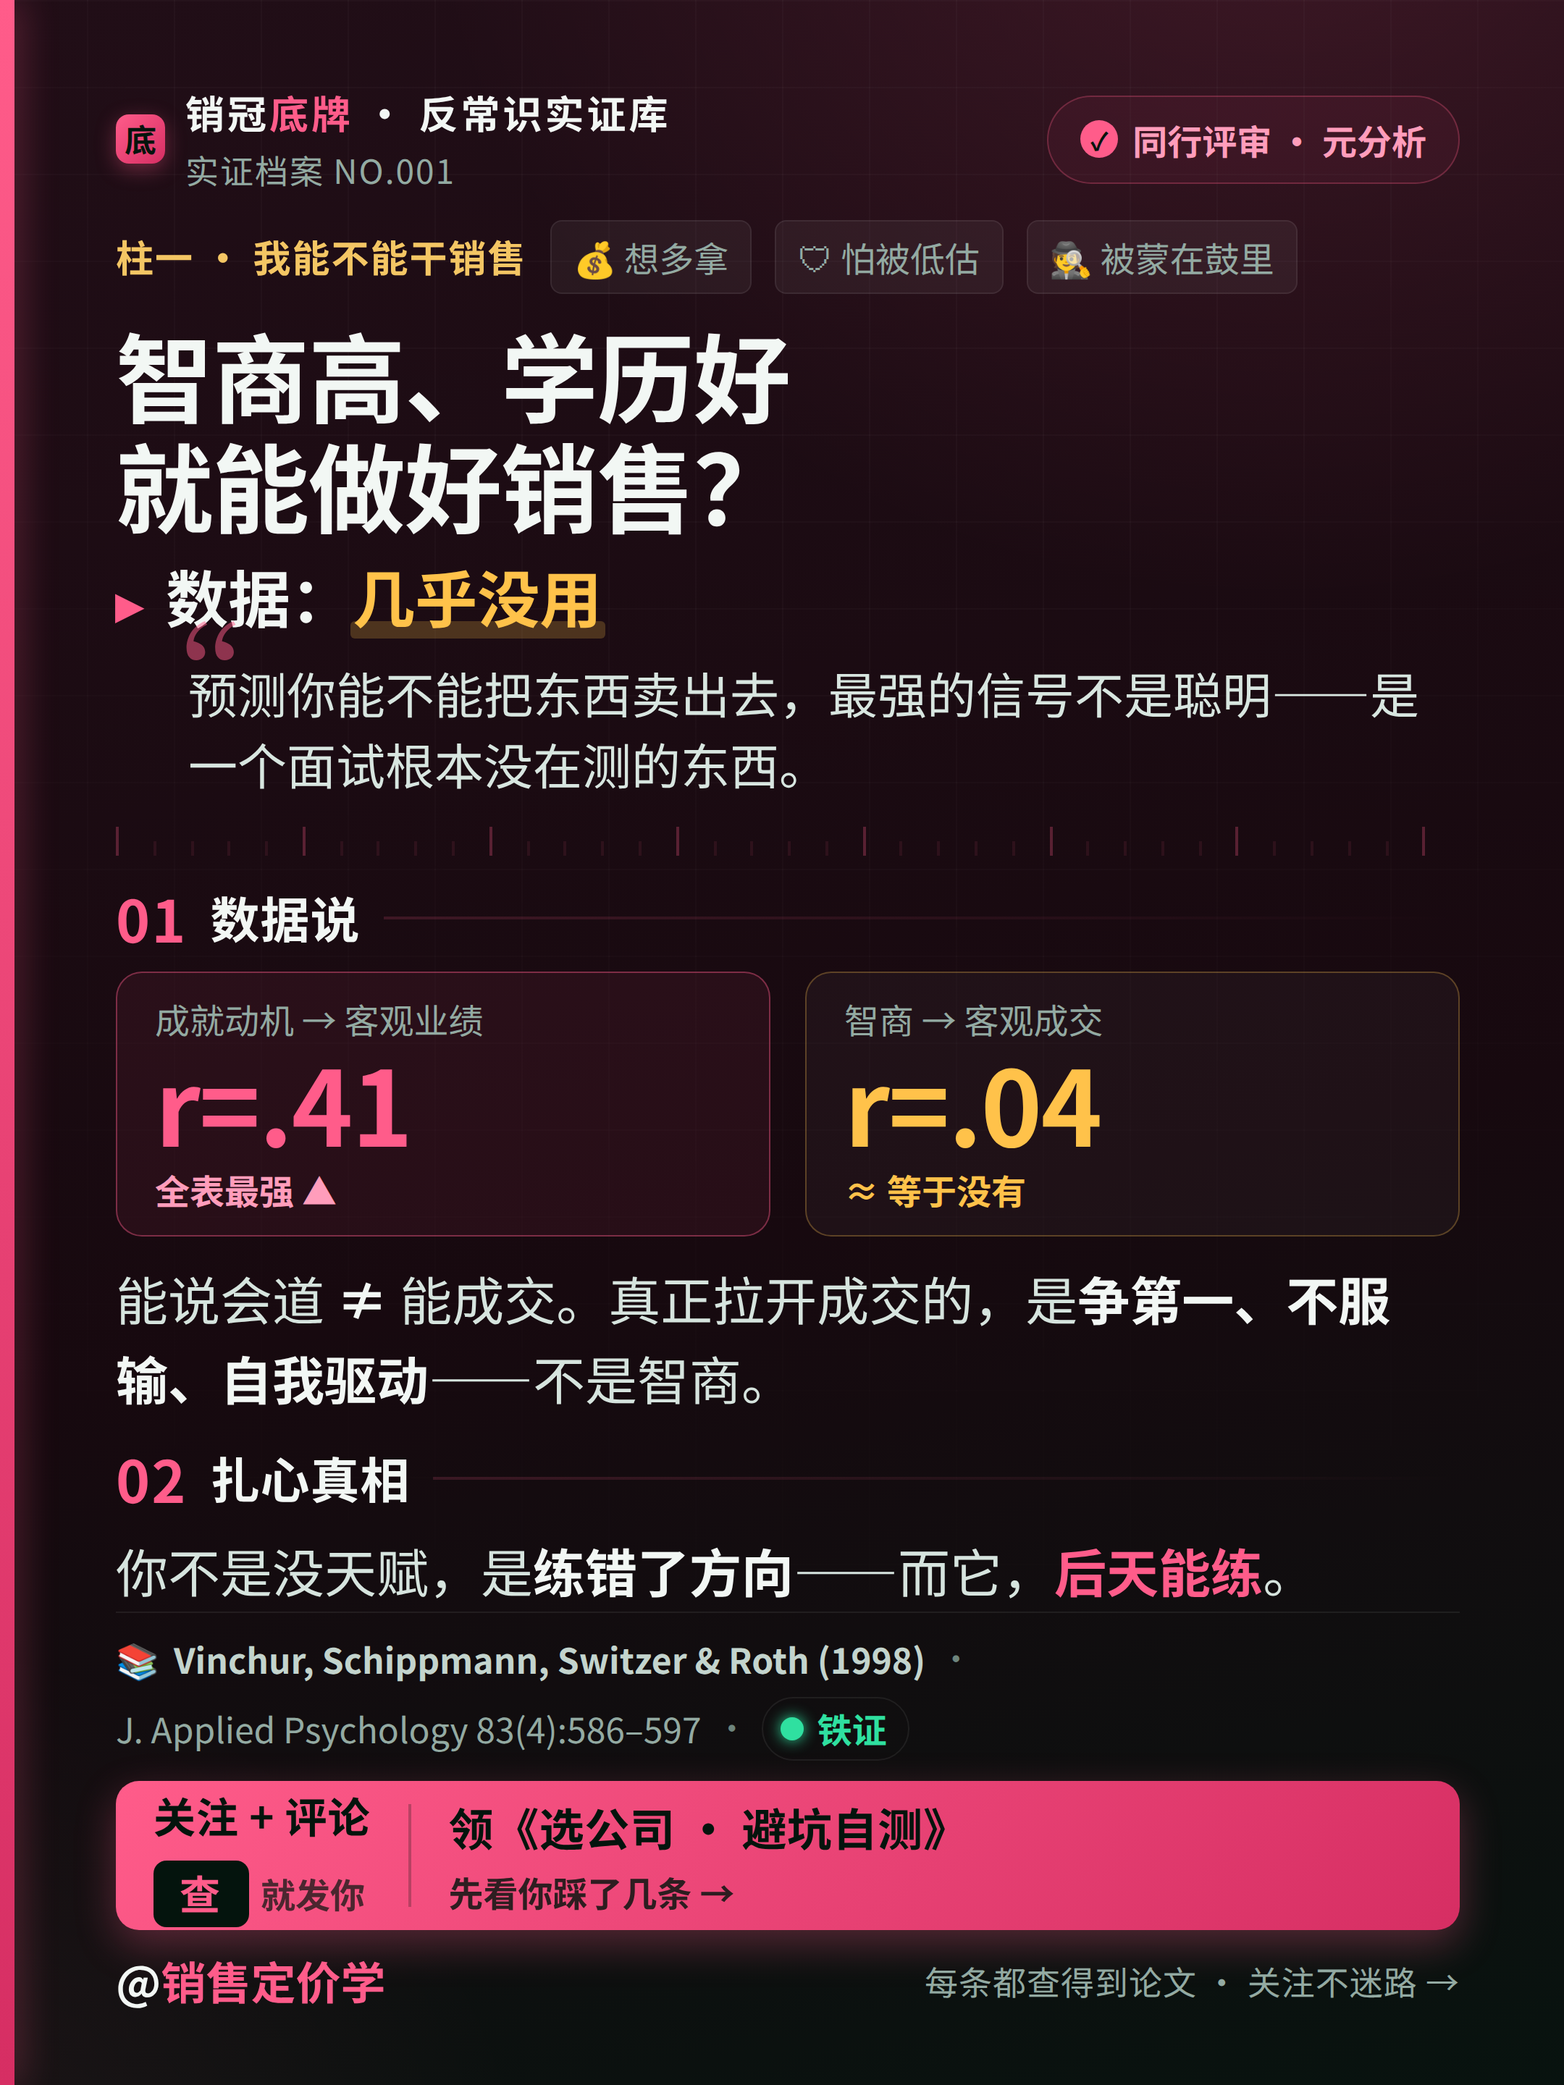
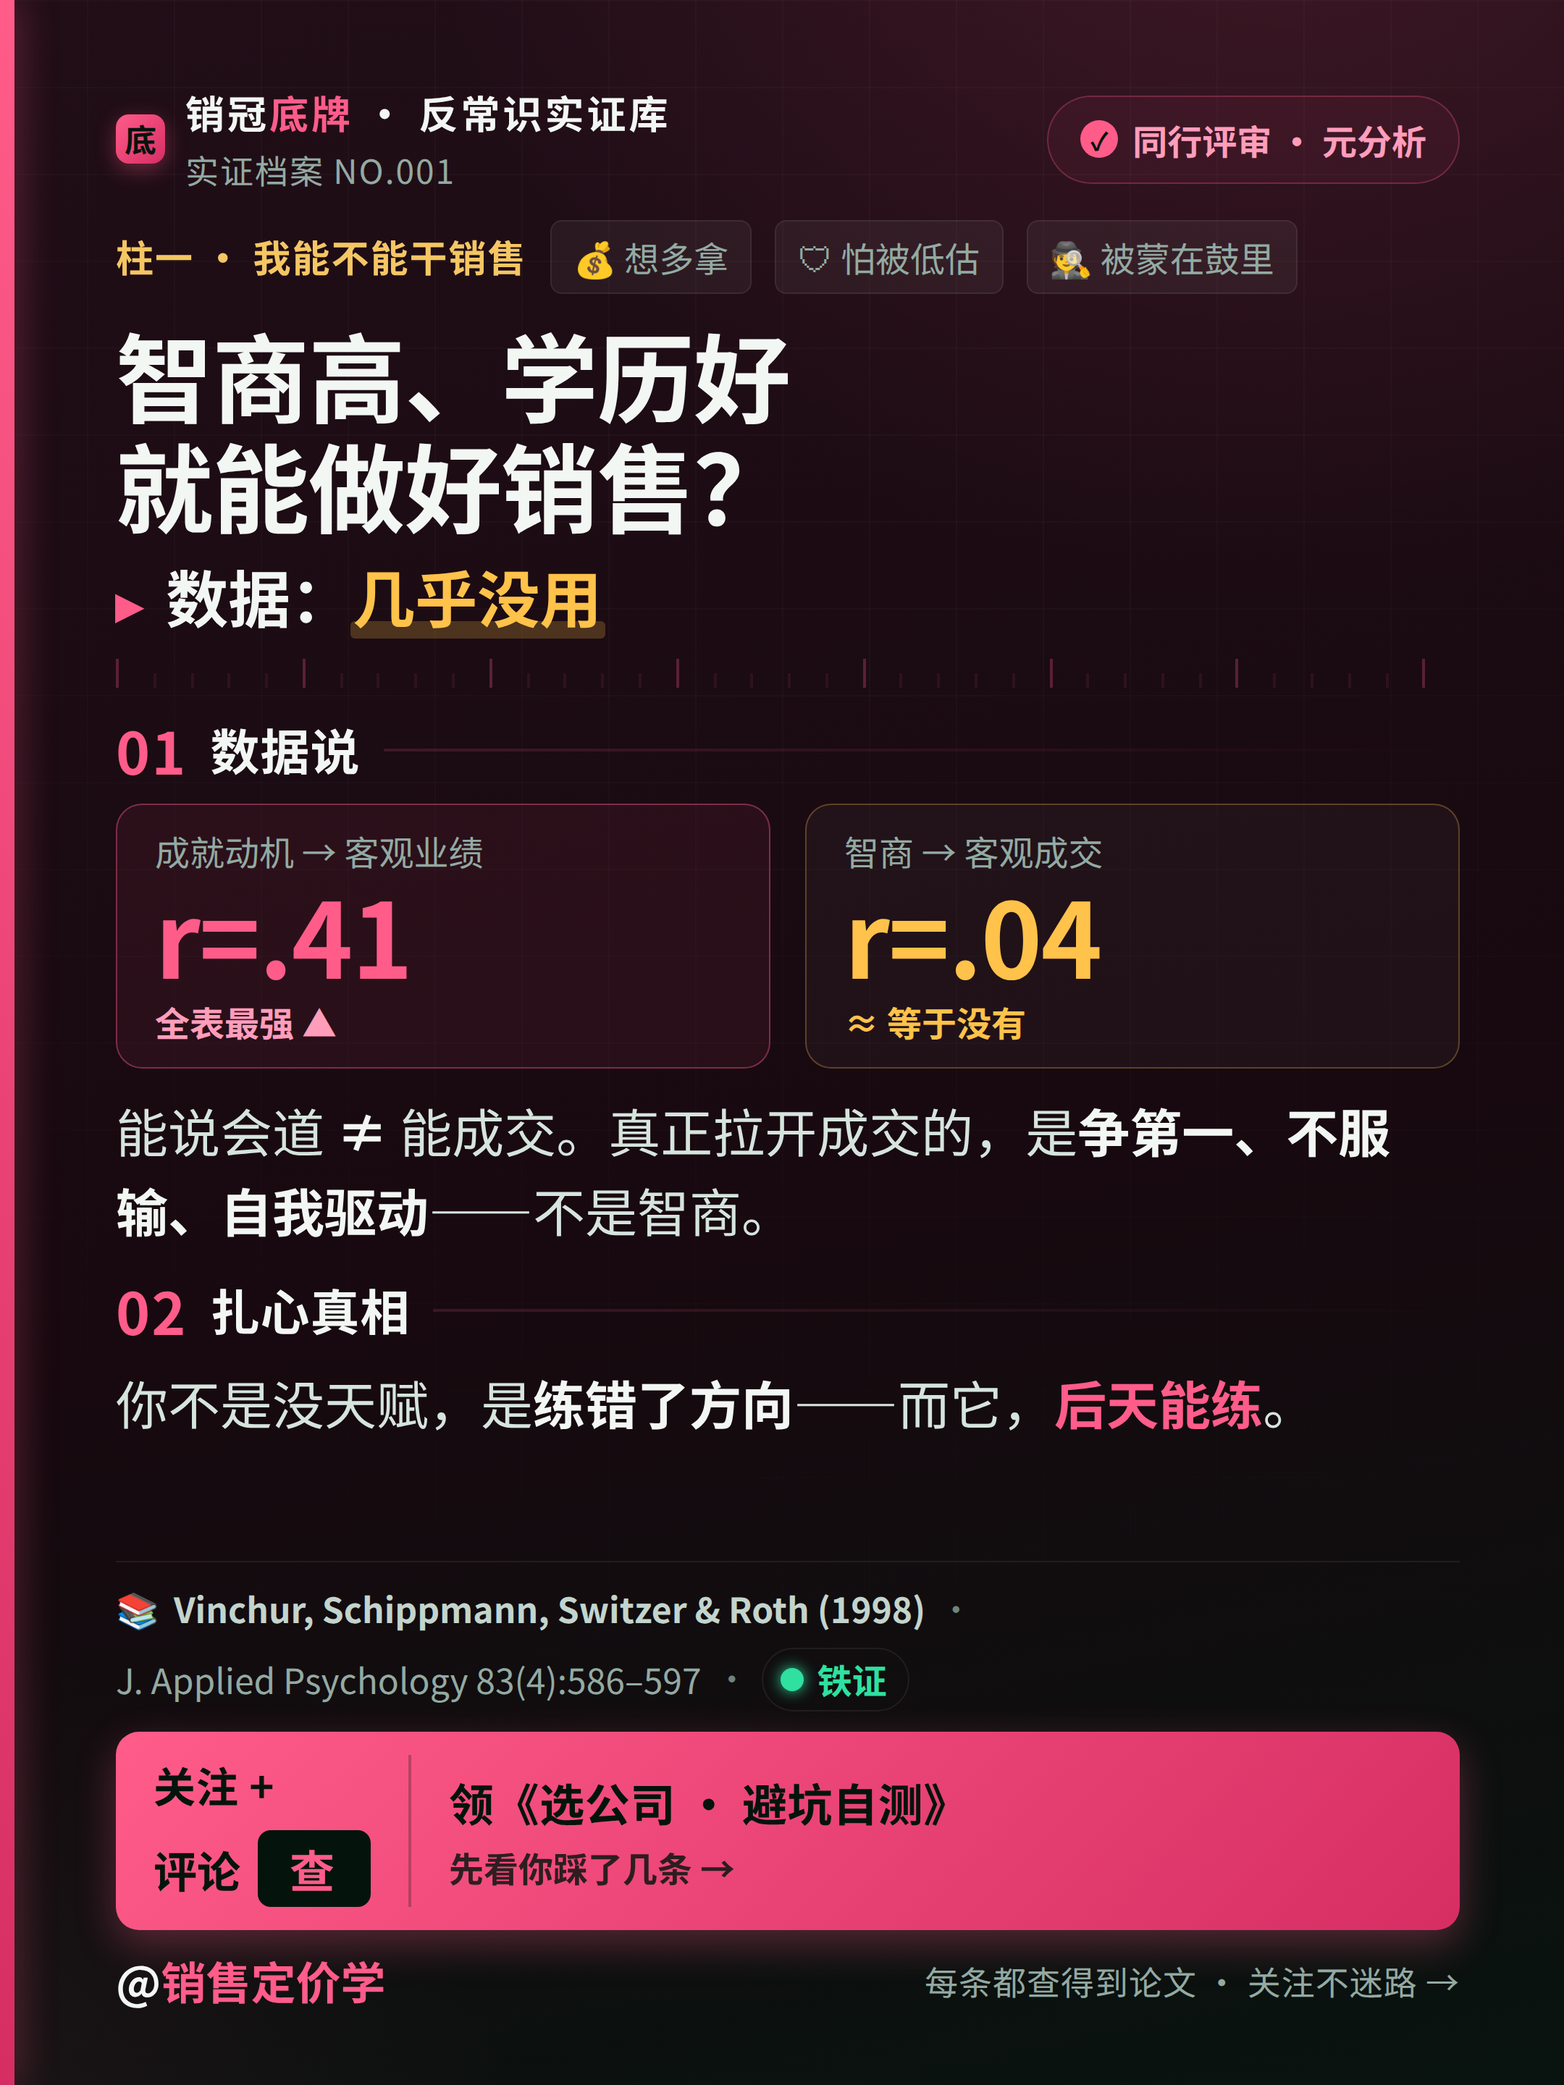
柱一完成：10 张理论卡（底001/002/003/009/010/031/042/080/100/043）
- 新增两种数据图：崩塌曲线(底003)、横向排名条(底042/080)
- 修复关键布局bug：锁定 flex 子元素不被压缩，钩子盒不再被挤成细条
- 取消顶部引用钩子，改由标题问句+结论承担钩子，为通用转化盒腾出空间
- 结构对齐原样片：标题→01数据→02扎心→论文→通用钩子盒→底栏
- 全部精确适配 1080x1440(3:4)，正文36px，青蓝配色
- 便于交付的中文命名副本置于 cards/柱一/

diff --git a/cards/cards.html b/cards/cards.html
@@ -42,6 +42,7 @@
     color:var(--cream);overflow:hidden;padding:58px 72px 50px 80px;
     display:flex;flex-direction:column;isolation:isolate;
   }
+  .card > *{flex-shrink:0;}   /* 禁止子元素被压缩，溢出即暴露，便于精确校对 */
   .card::before{content:"";position:absolute;left:0;top:0;bottom:0;width:10px;
     background:linear-gradient(180deg,var(--acc) 0%, var(--acc-deep) 100%);
     box-shadow:0 0 26px rgba(var(--acc-rgb),.5);}
@@ -164,6 +165,22 @@
   .u-tick{fill:var(--dim);font-size:23px;}
   .u-stop0{stop-color:var(--acc);stop-opacity:.35;}
   .u-stop1{stop-color:var(--acc);stop-opacity:0;}
+  .d-crash{fill:none;stroke:var(--rev);stroke-width:5;stroke-linecap:round;}
+  .d-dot{fill:var(--rev);}
+  .d-label{fill:var(--rev);font-size:25px;font-weight:800;}
+
+  /* 横向排名条 */
+  .bars{display:flex;flex-direction:column;gap:8px;margin:2px 0 10px;}
+  .bar-row{display:flex;align-items:center;gap:15px;}
+  .bar-lab{width:228px;font-size:25px;color:#D6E4DE;font-weight:700;white-space:nowrap;text-align:right;}
+  .bar-track{flex:1;height:22px;background:rgba(255,255,255,.06);border-radius:7px;overflow:hidden;}
+  .bar-fill{display:block;height:100%;border-radius:7px;background:linear-gradient(90deg,var(--acc-deep),var(--acc));}
+  .bar-fill.hi{background:linear-gradient(90deg,var(--acc),var(--acc-2));box-shadow:0 0 14px rgba(var(--acc-rgb),.5);}
+  .bar-fill.lose{background:linear-gradient(90deg,#b8442c,var(--rev));}
+  .bar-fill.dim{background:rgba(255,255,255,.16);}
+  .bar-val{width:130px;font-size:25px;font-weight:800;color:var(--acc-2);white-space:nowrap;}
+  .bar-val.lose{color:var(--rev);}
+  .bar-val.dim{color:var(--dim);}
 </style>
 </head>
 <body>
@@ -206,6 +223,171 @@ const CARDS = [
     citeJour:"Psychological Science 24(6):1024–1030",
     gradeLevel:"y", gradeText:"较稳",
   },
+  /* ================= 底003 ================= */
+  {
+    fileNo:"实证档案 NO.003", pillar:"柱一 · 我能不能干销售",
+    tags:["🛡 怕被低估","🕵 被蒙在鼓里"],
+    badge:"顶刊 · 纵向追踪",
+    headQ:["开局最炸的新人","往往崩得最快"],
+    verdict:[{t:"短期冲高，随后"},{t:"跌下神坛",cls:"hl-coral hl-under"}],
+    hook:"别羡慕那个一进来就爆单的同事——这条崩塌曲线，是有论文的，不是你运气差。",
+    b1title:"数据说",
+    chart:"decline",
+    b1body:'自恋 / 精神病态型<b>短期业绩冲高</b>，随后收益全丧失；闷头算计、面试平淡的，<b>长期反而最强</b>。',
+    b2title:"扎心真相",
+    b2body:'让人眼前一亮的人，和最终能赢的人，<span class="mint">常是两个人</span>——稳定复利，才是提款机的样子。',
+    citeSrc:"Satornino, Allen, Shi & Bolander (2023)",
+    citeJour:"Journal of Marketing 87(2):298–318",
+    gradeLevel:"g", gradeText:"铁证",
+  },
+  /* ================= 底009 ================= */
+  {
+    fileNo:"实证档案 NO.009", pillar:"柱一 · 我能不能干销售",
+    tags:["🔥 想放弃","🛡 怕被低估"],
+    badge:"顶刊 · 追踪研究",
+    headQ:["考试没过、但够乐观","反而卖得最好"],
+    verdict:[{t:"超级乐观组 · 第二年"},{t:"反超 57%",cls:"hl-coral hl-under"}],
+    hook:"大都会人寿招了一批“笔试没通过”的人，只因一个特质——结果他们卖赢了所有人。",
+    b1title:"数据说",
+    stats:[
+      {cap:"乐观前半组 · 两年累计",num:"+37%",tagn:"多卖这么多 ▲",kind:"win"},
+      {cap:"超级乐观组 · 第二年",num:"+57%",tagn:"反超正常录取 ▲",kind:"win"},
+    ],
+    b1body:'机制:乐观者把拒绝归因为<b>"暂时的、具体的"</b>——所以被拒之后，还敢打下一个电话。',
+    b2title:"扎心真相",
+    b2body:'能不能扛过销售最难那关(被拒)，不看脸皮厚，看<span class="mint">你怎么解释"这次没成"</span>——这，能练。',
+    citeSrc:"Seligman & Schulman (1986)",
+    citeJour:"J. Personality & Social Psych. 50(4):832–838",
+    gradeLevel:"y", gradeText:"较稳",
+  },
+  /* ================= 底010 ================= */
+  {
+    fileNo:"实证档案 NO.010", pillar:"柱一 · 我能不能干销售",
+    tags:["🛡 怕被低估","🔥 想放弃"],
+    badge:"元分析 · 跨职业",
+    headQ:["干成销售靠的性格","不是能说会道"],
+    verdict:[{t:"是"},{t:"尽责",cls:"hl-mint"},{t:"：自律 · 可靠 · 跟到底"}],
+    hook:"跨所有职业、几十年数据里，最稳的那个性格预测因子——不是外向，是“尽责”。",
+    b1title:"数据说",
+    stats:[
+      {cap:"尽责性（自律 · 可靠 · 跟到底）→ 绩效",num:"跨职业 第 1",tagn:"最一致的预测因子 ▲（效度约 .19）",kind:"win"},
+    ],
+    b1body:'大五人格里，只有<b>尽责性</b>是跨所有职业最一致的业绩预测因子；<b>外向</b>只在销售等特定岗位有限相关。',
+    b2title:"扎心真相",
+    b2body:'你羡慕的"天生会来事"不是关键。<span class="mint">按流程、跟到底、可不可靠</span>——靠习惯，不靠天赋。',
+    citeSrc:"Barrick & Mount (1991)",
+    citeJour:"Personnel Psychology 44(1):1–26",
+    gradeLevel:"g", gradeText:"铁证",
+  },
+  /* ================= 底031 ================= */
+  {
+    fileNo:"实证档案 NO.031", pillar:"柱一 · 我能不能干销售",
+    tags:["🧭 选公司","🛡 怕被低估","🕵 被蒙在鼓里"],
+    badge:"元分析",
+    headQ:["怕自己没经验","不敢入行销售？"],
+    verdict:[{t:"经验对真实成交，"},{t:"几乎不预测",cls:"hl-coral hl-under"}],
+    hook:"年限对真实成交，几乎不预测，甚至略负——老练，只是“看起来像个销售”。",
+    b1title:"数据说",
+    stats:[
+      {cap:"经验 → 主管评分",num:"r=.26",tagn:"只是看着像",kind:"win"},
+      {cap:"经验 → 客观成交",num:"≈ -.06",tagn:"约等于零，甚至略负",kind:"lose"},
+    ],
+    b1body:'老练的人"看起来像个销售"，但<b>卖不卖得出，跟干过几年无关</b>。',
+    b2title:"扎心真相",
+    b2body:'转行、退伍、刚毕业，别被"没经验"劝退——这行的门槛，<span class="mint">比劝退你的人说的低</span>。',
+    citeSrc:"Vinchur, Schippmann, Switzer & Roth (1998)",
+    citeJour:"J. Applied Psychology 83(4):586–597",
+    gradeLevel:"g", gradeText:"铁证",
+  },
+  /* ================= 底042 ================= */
+  {
+    fileNo:"实证档案 NO.042", pillar:"柱一 · 我能不能干销售",
+    tags:["🧭 选公司","🛡 怕被低估","🕵 被蒙在鼓里"],
+    badge:"元分析 · 116 篇",
+    headQ:["怕自己天生","不是干销售的料？"],
+    verdict:[{t:"史上最大规模研究:天赋排"},{t:"倒数",cls:"hl-coral hl-under"}],
+    hook:"汇总 116 篇研究、1653 个关联，把“天赋”排到了倒数。",
+    b1title:"对业绩影响力排序",
+    chart:"bars",
+    bars:[
+      {lab:"角色认知",w:100,val:"第 1",kind:"hi"},
+      {lab:"技能",w:84,val:"第 2"},
+      {lab:"动机",w:68,val:"第 3"},
+      {lab:"个人因素",w:50,val:"第 4"},
+      {lab:"天资 / 天赋",w:34,val:"倒数第 2",kind:"lose"},
+      {lab:"组织环境",w:24,val:"垫底",kind:"dim"},
+    ],
+    b1body:'真正靠前的角色认知、技能、动机，<b>全是后天能练的</b>。',
+    b2title:"扎心真相",
+    b2body:'"我没这天赋"只是借口——拉开差距的是<span class="mint">能练的技能和动机</span>，不是天生的料。',
+    citeSrc:"Churchill, Ford, Hartley & Walker (1985)",
+    citeJour:"J. Marketing Research 22(2):103–118",
+    gradeLevel:"g", gradeText:"铁证",
+  },
+  /* ================= 底080 ================= */
+  {
+    fileNo:"实证档案 NO.080", pillar:"柱一 · 我能不能干销售",
+    tags:["💰 想多拿","🧭 选公司"],
+    badge:"顶刊元分析 · 530+ 引用",
+    headQ:["能不能卖好","实测就看这 5 样"],
+    verdict:[{t:"聪明(智商)，只排"},{t:"中游",cls:"hl-coral hl-under"}],
+    hook:"把 25 年销售研究汇总，真正预测业绩的前几名里，“聪明”只排中间，还有一样是公司在坑你。",
+    b1title:"真正预测业绩的 5 样（β）",
+    chart:"bars",
+    bars:[
+      {lab:"销售知识",w:100,val:".28",kind:"hi"},
+      {lab:"适应性（看人下菜）",w:96,val:".27"},
+      {lab:"认知能力（智商）",w:82,val:".23 · 中游"},
+      {lab:"工作投入",w:82,val:".23"},
+      {lab:"角色模糊（拖累）",w:89,val:"−.25",kind:"lose"},
+    ],
+    b1body:'"会卖的知识"排第一、"看人下菜的适应性"第二；<b>智商只排中游</b>。而<b>角色模糊</b>在实打实拖垮你。',
+    b2title:"扎心真相",
+    b2body:'一家让你长期<b>搞不清"该干嘛、按啥算钱"</b>的公司，不是管理松，是<span class="mint">直接在扣你业绩</span>。',
+    citeSrc:"Verbeke, Dietz & Verwaal (2011)",
+    citeJour:"J. Acad. Marketing Science 39(3):407–428",
+    gradeLevel:"g", gradeText:"铁证",
+  },
+  /* ================= 底100 ================= */
+  {
+    fileNo:"实证档案 NO.100", pillar:"柱一 · 我能不能干销售",
+    tags:["💰 想多拿","🛡 怕被低估"],
+    badge:"顶刊 · 经典 GED 研究",
+    headQ:["光聪明，不够","挣钱的是能练的本事"],
+    verdict:[{t:"同样考分，非认知弱 ="},{t:"辍学者工资",cls:"hl-coral hl-under"}],
+    hook:"同样的考分，非认知技能弱的人，挣的是辍学者的工资——决定收入的，不只是智商。",
+    b1title:"数据说",
+    stats:[
+      {cap:"考分（认知能力）",num:"= 高中毕业",tagn:"一样聪明",kind:"win"},
+      {cap:"收入（非认知技能弱）",num:"= 辍学者",tagn:"聪明没变现 ▼",kind:"lose"},
+    ],
+    b1body:'拿 GED（高中同等学力）的人考分和正常毕业生一样，但因<b>坚持、自律、靠谱更弱</b>，收入掉到辍学者水平。',
+    b2title:"扎心真相",
+    b2body:'你能不能卖好、挣得多，主要不看智商，看<span class="mint">坚持、靠谱、自律</span>——它们，能练出来。',
+    citeSrc:"Heckman & Rubinstein (2001)",
+    citeJour:"American Economic Review 91(2):145–149",
+    gradeLevel:"g", gradeText:"铁证",
+  },
+  /* ================= 底043 ================= */
+  {
+    fileNo:"实证档案 NO.043", pillar:"柱一 · 我能不能干销售",
+    tags:["🧭 选公司","💰 想多拿","🕵 被蒙在鼓里"],
+    badge:"元分析 · n=77,560",
+    headQ:["都说销售是","“钱”驱动的动物？"],
+    verdict:[{t:"更能预测业绩的，是你"},{t:"喜不喜欢",cls:"hl-mint"}],
+    hook:"7 万多人的数据说:比钱更能预测你业绩的，是你到底喜不喜欢这件事。",
+    b1title:"数据说",
+    stats:[
+      {cap:"内在动机（享受 · 成长）",num:"r=.298",tagn:"更能预测业绩 ▲",kind:"win"},
+      {cap:"外在动机（钱 · 奖金）",num:"r=.176",tagn:"反而更弱",kind:"lose"},
+    ],
+    b1body:'动机与业绩正相关(r=.245)；其中<b>内在动机</b>与业绩的关联，明显<b>强于"为了钱"的外在动机</b>。',
+    b2title:"扎心真相",
+    b2body:'光"为了钱"逼自己，反而不是最出业绩的姿势。选行选公司，<span class="mint">也看你会不会真喜欢上它</span>。',
+    citeSrc:"J. Acad. Marketing Science (2022) 元分析",
+    citeJour:"127 项研究 · n=77,560",
+    gradeLevel:"g", gradeText:"铁证",
+  },
 ];
 
 function uChart(){
@@ -224,12 +406,32 @@ function uChart(){
   </svg>`;
 }
 
+function declineChart(){
+  return `<svg class="uchart" viewBox="0 0 900 210" preserveAspectRatio="none" xmlns="http://www.w3.org/2000/svg">
+    <line class="u-axis" x1="40" y1="176" x2="880" y2="176"/>
+    <path class="u-line" d="M40 150 C 150 150, 230 34, 300 34"/>
+    <path class="d-crash" d="M300 34 C 430 34, 470 172, 880 168"/>
+    <circle class="u-dot" cx="300" cy="34" r="12"/>
+    <circle class="d-dot" cx="820" cy="166" r="11"/>
+    <text class="u-label" x="300" y="22" text-anchor="middle" font-family="Noto Sans CJK SC">开局爆单</text>
+    <text class="d-label" x="700" y="120" text-anchor="middle" font-family="Noto Sans CJK SC">第12个月 · 跌下神坛</text>
+  </svg>`;
+}
+function barsChart(items){
+  return `<div class="bars">${items.map(b=>`
+    <div class="bar-row">
+      <span class="bar-lab">${b.lab}</span>
+      <span class="bar-track"><span class="bar-fill ${b.kind||''}" style="width:${b.w}%"></span></span>
+      <span class="bar-val ${b.kind==='lose'?'lose':(b.kind==='dim'?'dim':'')}">${b.val}</span>
+    </div>`).join("")}</div>`;
+}
+
 function render(c){
   const verdict = c.verdict.map(v=>`<span class="${v.cls||''}">${v.t}</span>`).join("");
   const stats = c.stats ? `<div class="stats">${c.stats.map(s=>`
       <div class="stat ${s.kind}"><div class="cap">${s.cap}</div>
         <div class="num">${s.num}</div><div class="tagn">${s.tagn}</div></div>`).join("")}</div>` : "";
-  const chart = c.chart==="u" ? uChart() : "";
+  const chart = c.chart==="u" ? uChart() : c.chart==="decline" ? declineChart() : c.chart==="bars" ? barsChart(c.bars) : "";
   return `
   <div class="card">
     <div class="top">
@@ -248,7 +450,6 @@ function render(c){
     </div>
     <div class="headline"><div class="q">${c.headQ[0]}</div><div class="q">${c.headQ[1]}</div></div>
     <div class="verdict"><span class="arrow">▸</span><div>${verdict}</div></div>
-    <div class="hook"><span class="mark">&ldquo;</span>${c.hook}</div>
     <div class="ruler">${Array.from({length:36}).map(()=>"<i></i>").join("")}</div>
     <div class="block">
       <div class="block-label"><span class="block-num">01</span><span class="block-title">${c.b1title}</span><span class="block-line"></span></div>
